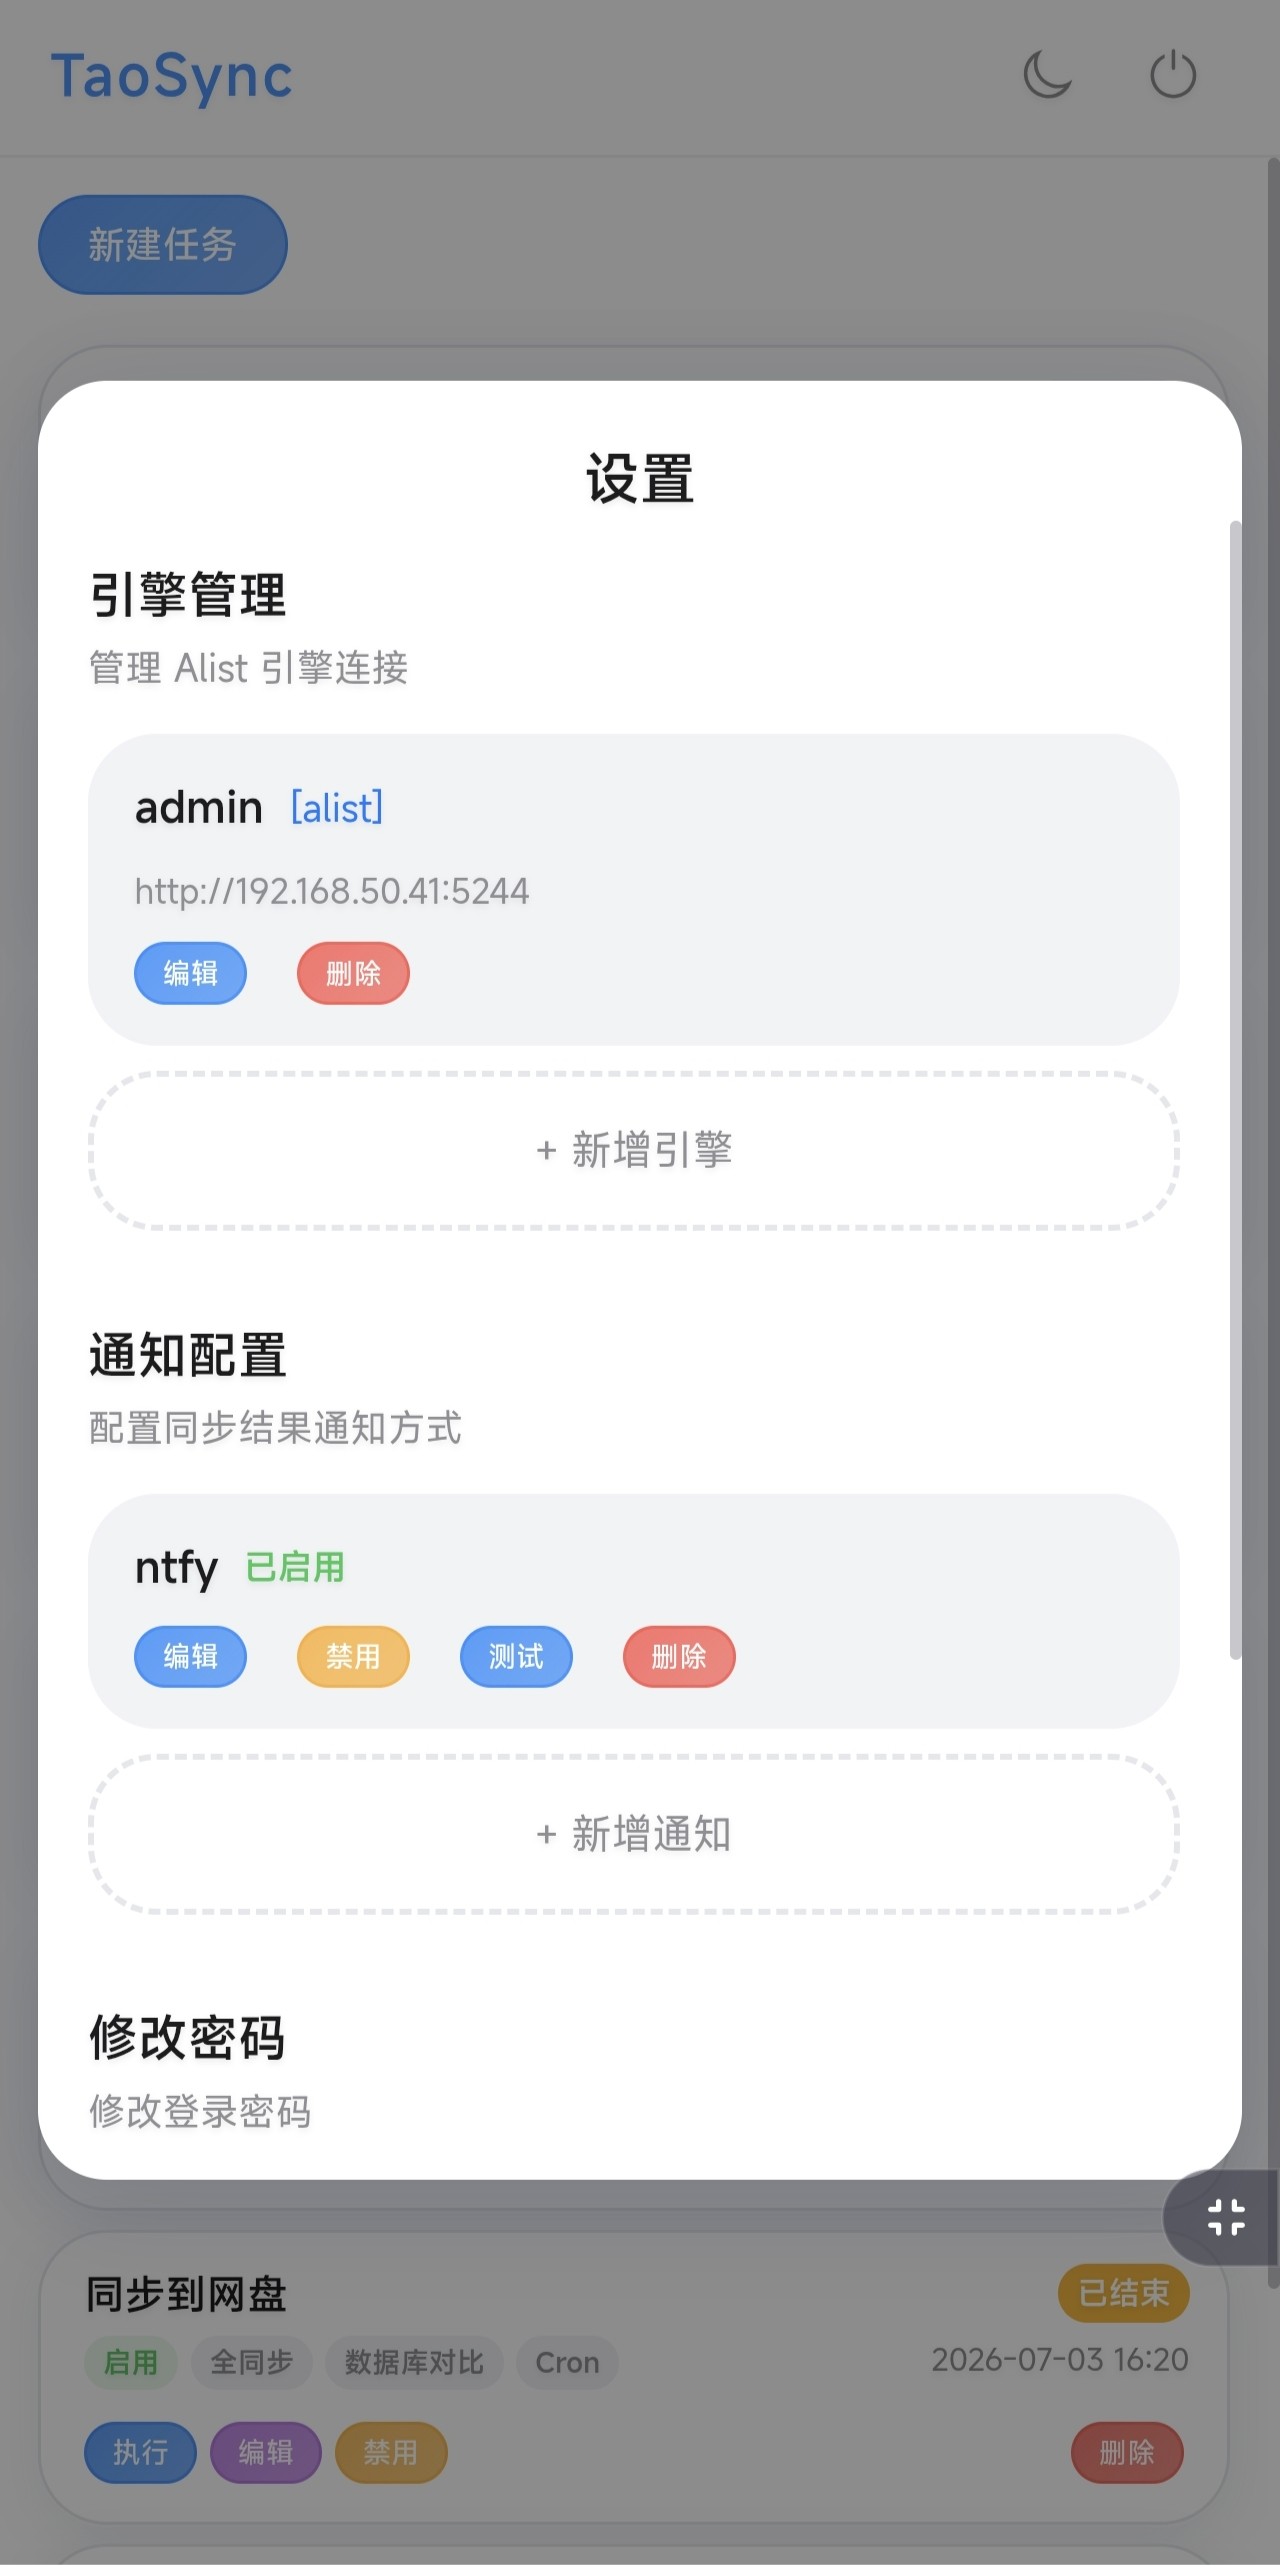
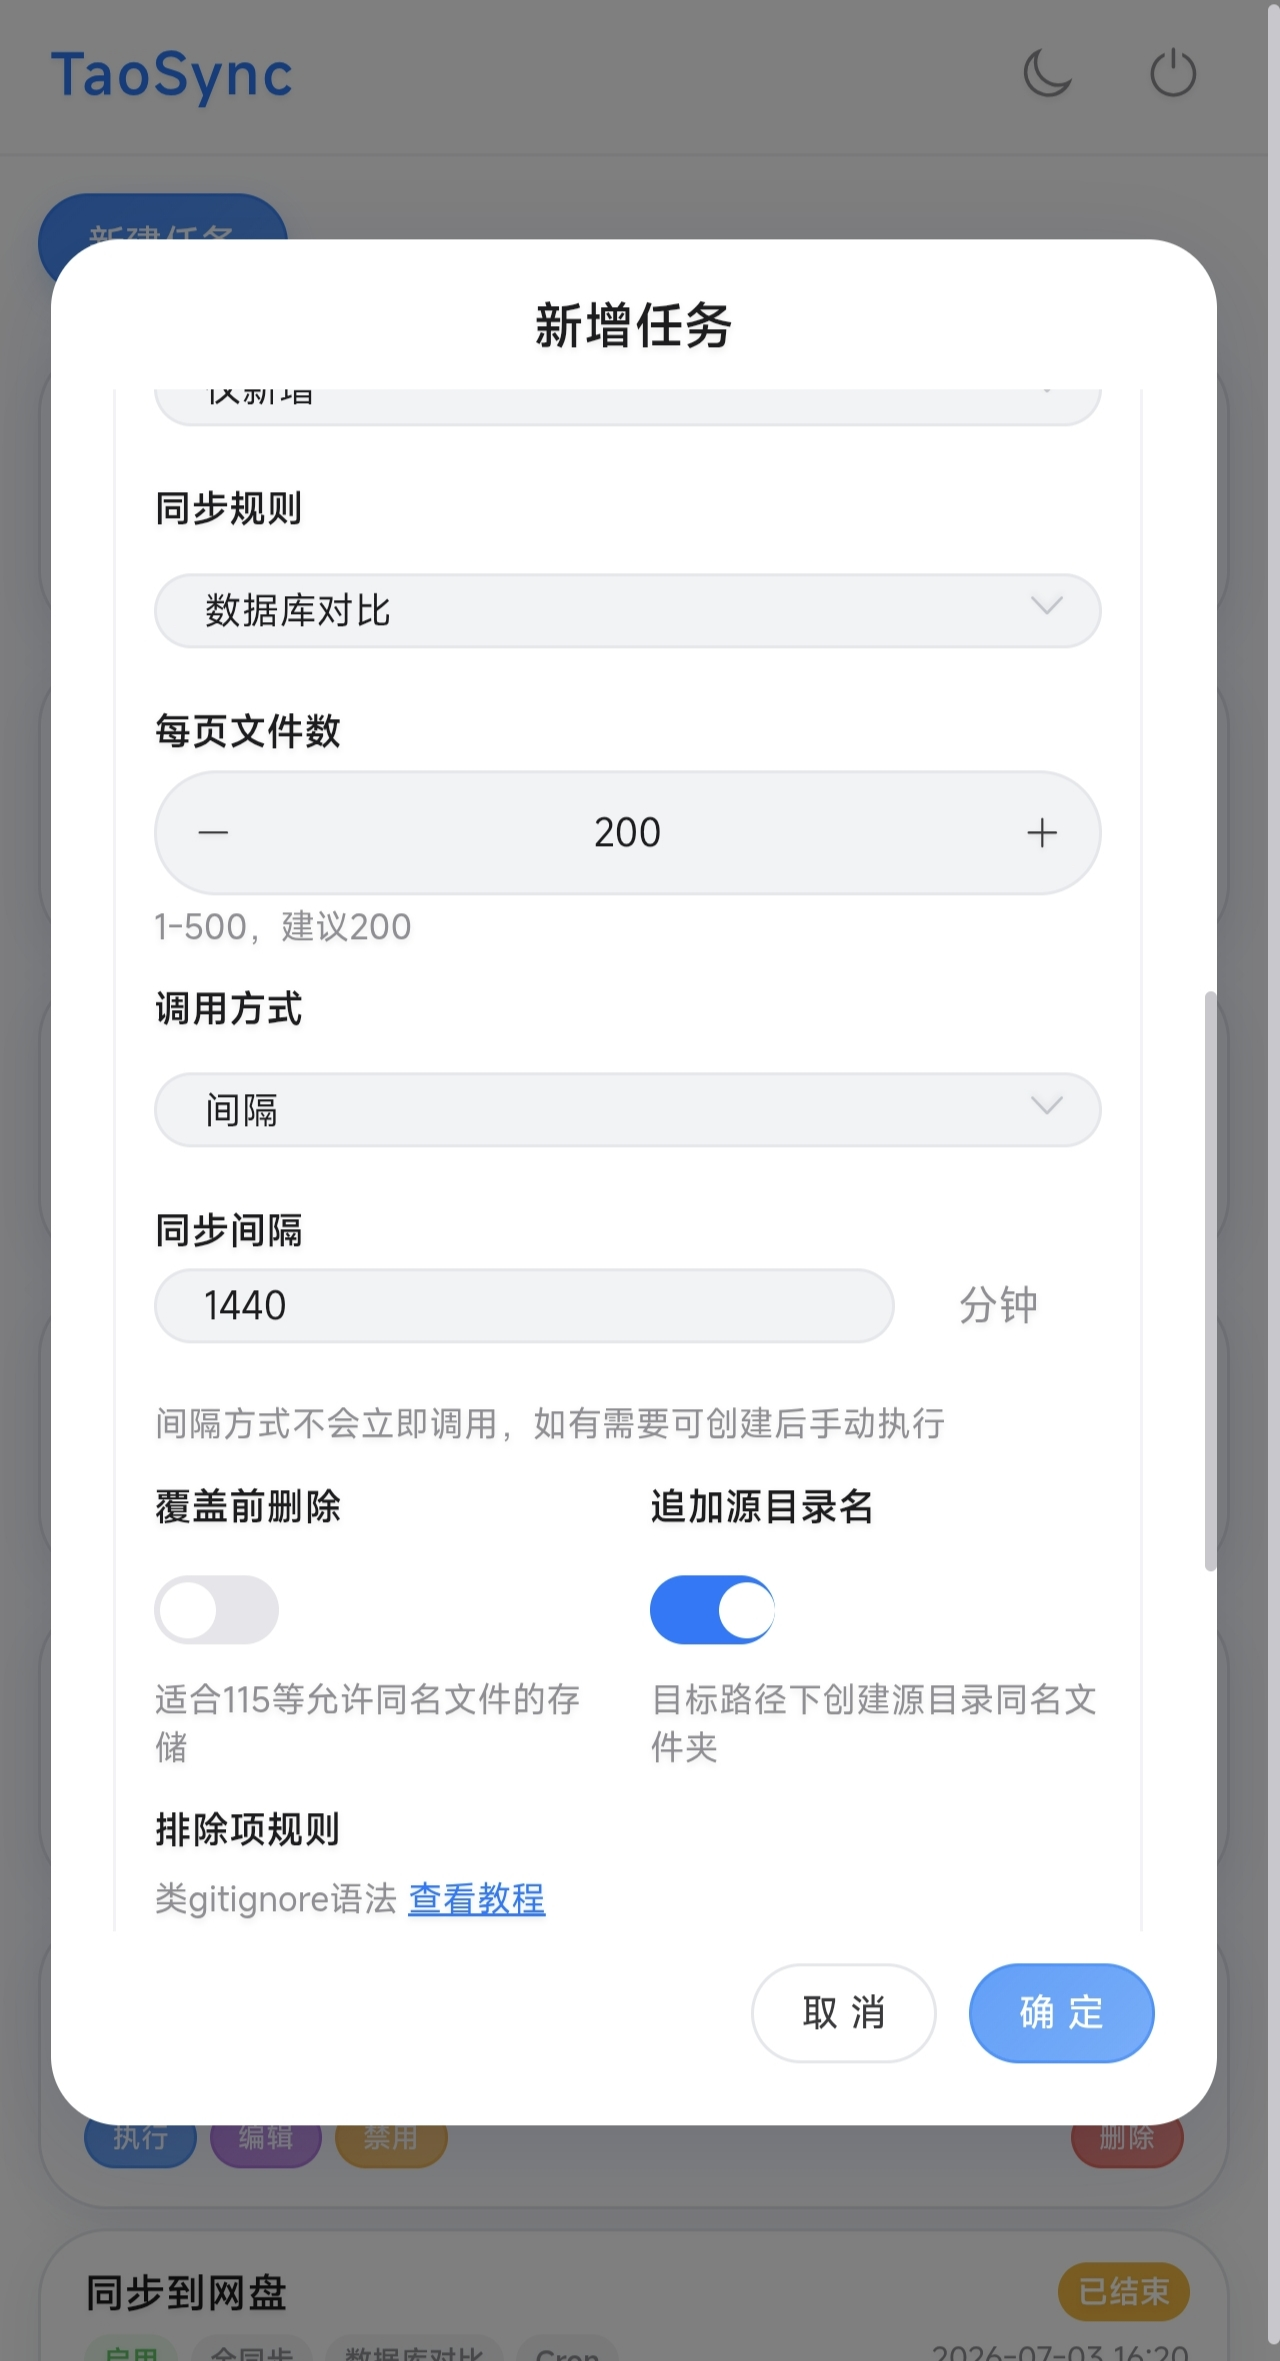
更新README和图片

diff --git a/README.md b/README.md
@@ -30,10 +30,6 @@
   <img src="assets/images/3.jpg" alt="截图3" width="800" />
 </p>
 
-<p align="center">
-  <img src="assets/images/4.jpg" alt="截图4" width="800" />
-</p>
-
 </details>
 
 ---